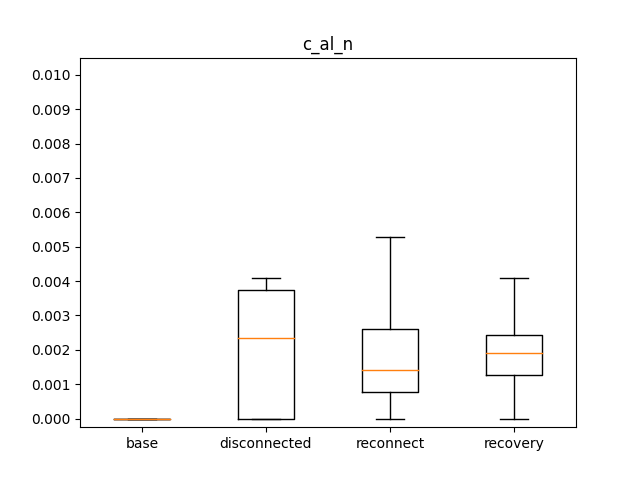
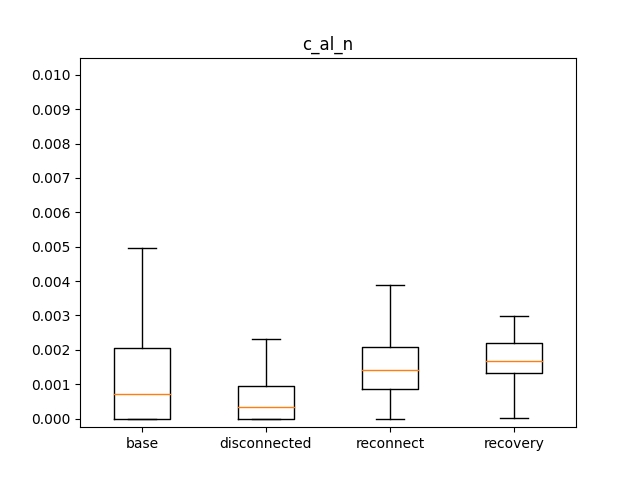
fix (?) disconnected app-link graphs)

diff --git a/graph.py b/graph.py
@@ -15,7 +15,7 @@ import matplotlib.pyplot as plt
 from scipy.stats import ks_2samp, describe
 
 CORES = 14
-ITERATIONS = 1000
+ITERATIONS = 1
 NUMBER_OF_AGENTS = 50
 ROUNDS = 100
 ACTIVATION = 0.1
@@ -210,9 +210,10 @@ def run_game(game, chats, agents, with_app_links=True, conf=True, no_score_links
         chats_last_node = np.zeros(len(chats))
         for n in range(M.shape[0]):
             last_node_of_chat = int(chats_last_node[node_chat[n]])
-            if last_node_of_chat != 0:
-                M[n, last_node_of_chat] = True
+            # if last_node_of_chat != 0:
+            M[n, last_node_of_chat] = True
             chats_last_node[node_chat[n]] = n
+        
 
     try:
         # print("Normalized")
